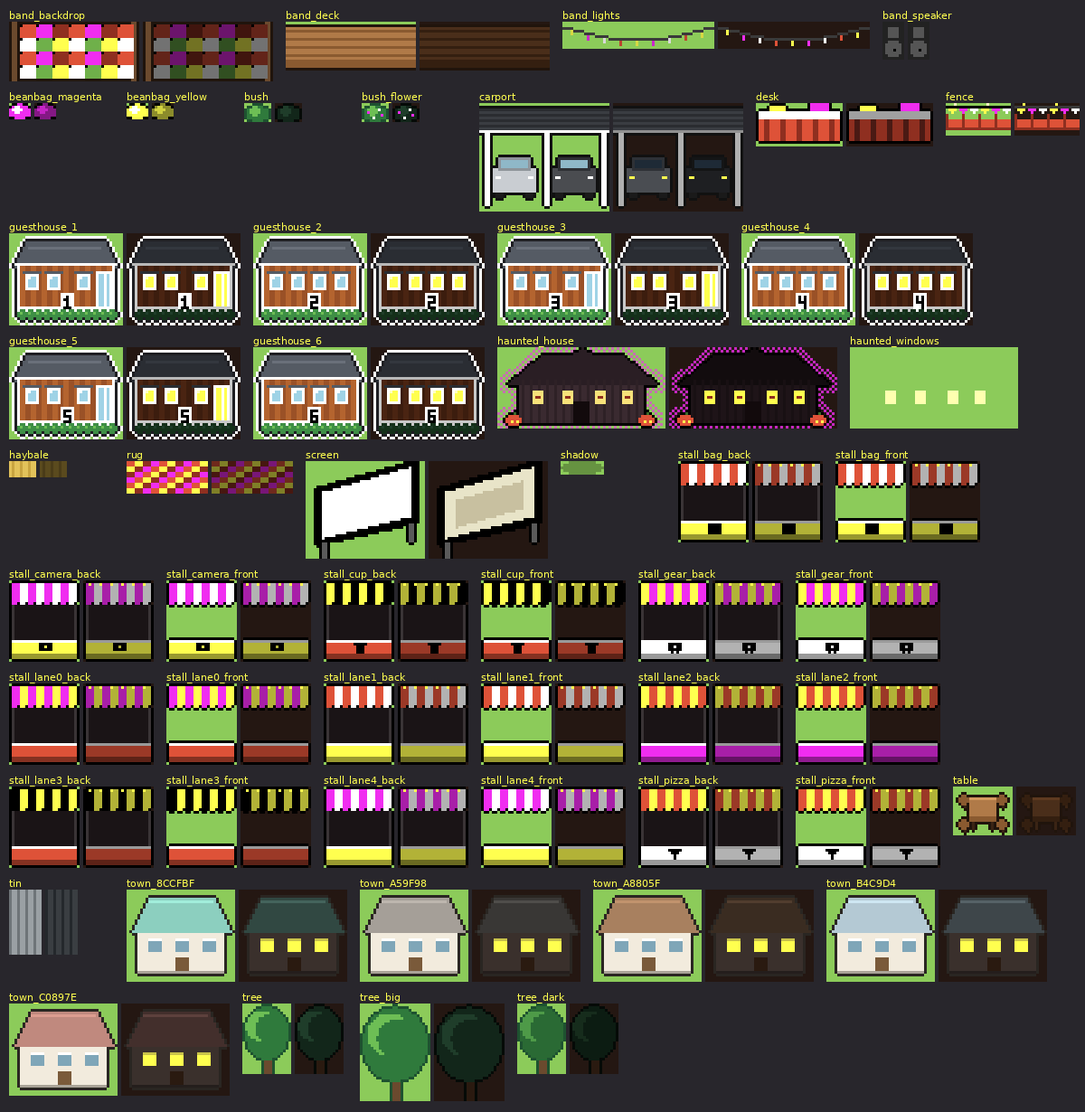
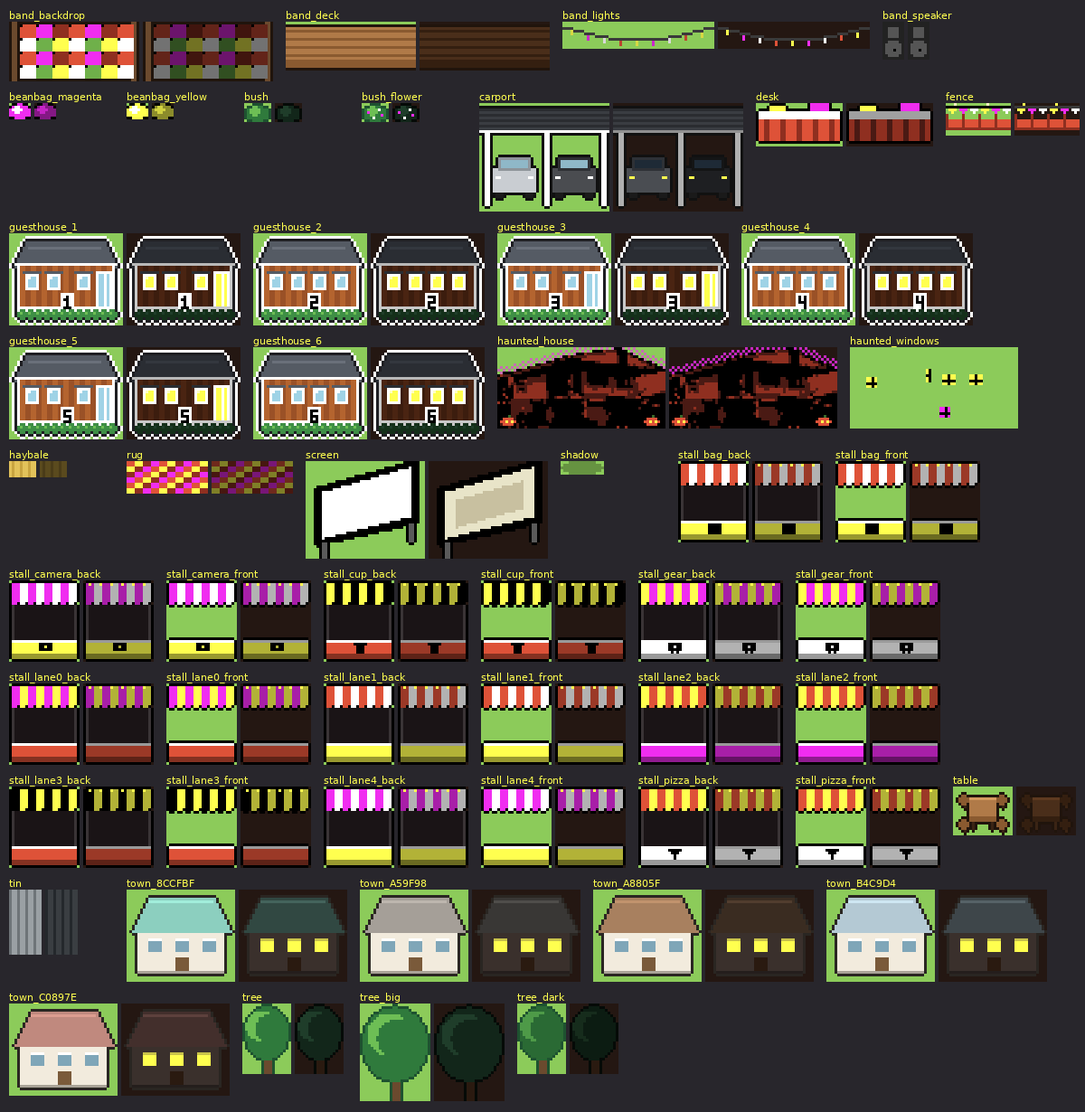
Scene 3: prototype dialogue, credits and haunted house; phone-safe links
- The 13 characters' dialogue, speaker tags and costumes, and the credits,
  copied exactly from the prototype (lannapha-home.html, NPC_DEFS/CREDITS),
  found as the owner's published demo.
- The real haunted house (haunted_house_124x60.png from the prototype),
  halved by majority colour, magenta halo, pumpkins, flickering windows.
- Long speaker tags drop to 10 px to stay inside the box; name plates over
  heads keep the short names.
- Links open through a real new-tab anchor (works in phone browsers and in
  embedded viewers); tools/artifact_page.py adds a window.open fallback for
  scenes 1 and 2 and names the full game page.

Claude-Session: https://claude.ai/code/session_01Fe5UomiUQN5FvRh91y8j5k

Changed region(s): [[0.4317, 0.3089, 0.7708, 0.4016], [0.8017, 0.3398, 0.925, 0.3707]]

diff --git a/src/scene3/data/script.js b/src/scene3/data/script.js
@@ -1,11 +1,8 @@
 // Scene 3 text. Lines from the owner's brief are final and used exactly.
 //
-// TODO(prototype): the characters' dialogue (NPC_DEFS) and the credits (CREDITS) live in
-// the prototype lannapha-home.html, which has not been delivered to this repo yet. Their
-// pages below are visible placeholders (PENDING). Paste the prototype's Thai lines into
-// NPC_LINES and CREDITS: nothing else needs to change.
-
-export const PENDING = (who) => `[บทพูดของ ${who}: รอคัดลอกจากต้นแบบ]`;
+// The characters' dialogue, speaker tags and credits are copied exactly from the prototype
+// (lannapha-home.html, its scene 3 NPC_DEFS and CREDITS). The haunted house's goal name is
+// the owner's later change (บ้านเมื่อคืนผมนอนไม่หลับ).
 
 // ---- Opening welcome (final, Jay laughs โฮะๆ at the end) ----
 export const WELCOME_SPEAKER = 'Jayimpacts';
@@ -51,21 +48,36 @@ export const LABELS = {
 export const STALL_ROW_SPEAKER = 'ซุ้มเปิดจองพื้นที่';
 export const STALL_ROW_PAGES = ['ใครอยากมาเป็นส่วนหนึ่งของงาน สามารถจับจองพื้นที่เปิดซุ้มกับเราได้เลยครับ'];
 
-// ---- Characters' dialogue: TODO(prototype) copy NPC_DEFS pages here (key -> pages) ----
+// ---- Characters' dialogue and speaker tags: copied exactly from the prototype's NPC_DEFS ----
+export const NPC_NAMES = {
+  bas: 'น้องบาส (จุดลงทะเบียน)',
+  djton: 'ดีเจต้น (มิกซ์เพลง/หนังกลางแปลง)',
+  wizard: 'จอมเวทย์ลึกลับ',
+  pan: 'น้องปัน (โซนที่นั่งชมจอกลางแปลง)',
+  chef: 'เชฟตูน (ร้านพิซซ่า)',
+  beer: 'น้าเบียร์ (ร้านเครื่องดื่ม)',
+  khaopan: 'น้องข้าวปั้น (โซนโต๊ะจัดเลี้ยง)',
+  golf: 'น้องกอล์ฟ (จุดถ่ายรูป Photo Booth)',
+  nid: 'ป้านิด (ของทานเล่น/ของเล็กๆ Local)',
+  nok: 'พี่นก (ทางเชื่อมออกซอย)',
+  jay: 'Jayimpacts · ซุ้ม Rotary',
+  kaiching: 'Kaiching · ทีม Jintanakarn',
+  captain: 'Captain',
+};
 export const NPC_LINES = {
-  bas: [PENDING('น้องบาส')],
-  djton: [PENDING('ดีเจต้น')],
-  wizard: [PENDING('จอมเวทย์ลึกลับ')],
-  pan: [PENDING('น้องปัน')],
-  chef: [PENDING('เชฟตูน')],
-  beer: [PENDING('น้าเบียร์')],
-  khaopan: [PENDING('น้องข้าวปั้น')],
-  golf: [PENDING('น้องกอล์ฟ')],
-  nid: [PENDING('ป้านิด')],
-  nok: [PENDING('พี่นก')],
-  jay: [PENDING('Jayimpacts')], // his last page gets the "เปิด IG" button
-  kaiching: [PENDING('Kaiching')],
-  captain: [PENDING('Captain')],
+  bas: ['สวัสดีครับ ตรงนี้คือจุดลงทะเบียนหน้างานนะครับ', 'งานนี้จะมีโซนที่นั่งชมจอกลางแปลง โซนโต๊ะจัดเลี้ยง และร้านค้าอีกหลายร้านมากมายครับ', 'เดินชมรอบๆ ได้เลยครับ มีอะไรถามผมได้ตลอดนะ'],
+  djton: ['สวัสดีครับ ผมคุมเพลงกับเสียงของโซนหนังกลางแปลงเองเลย', 'ก่อนหนังฉาย จะเปิดเพลย์ลิสต์ชิลล์ๆ คลอไปก่อนสักพักครับ', 'หนังสั้น ชักศอกไม่ถึงใจ เริ่มฉาย 1 ทุ่ม โปรแกรมหลักเริ่ม 1 ทุ่มครึ่งนะครับ'],
+  wizard: ['โฮ่ๆ... เจอผู้กล้าอีกคนแล้วสินะ', 'ข้าแค่แวะเดินผ่านงานนี้ ไม่ได้ตั้งใจจะมาทำนายดวงใครหรอกนะ...', 'แต่ถ้าอยากรู้ว่าวันนี้จะสนุกไหม บอกได้เลยว่า แน่นอน'],
+  pan: ['โซนนี้เป็นที่นั่งบีนแบ็กสำหรับดูจอกลางแปลงครับ จอใหญ่ตั้งอยู่ทางโน้นเลย', 'ลองนึกภาพเอนหลังบนบีนแบ็กนุ่มๆ มีลมเย็นจากคลองบางหลวงพัดมาเบาๆ พร้อมเสียงหัวเราะของเพื่อนๆ รอบตัว', 'ตกเย็นแดดร่มลมตก หยิบของกินเล่นจากร้านใกล้ๆ มานั่งดูหนังกลางแปลงด้วยกัน บรรยากาศดีสุดๆ เลยครับ'],
+  chef: ['สวัสดีครับ ร้านผมอยู่ตรงนี้เลย หนึ่งในร้านค้ามากมายของงาน', 'แผนคือให้แขกได้ลองนวดแป้งและโรยหน้าพิซซ่าเองก่อนเข้าเตาถ่านครับ', 'รอบถัดไปน่าจะเปิดให้จองได้เร็วๆ นี้ครับ'],
+  beer: ['ร้านน้านี่ขายเครื่องดื่มเย็นๆ ค่ะ มีทั้งชา กาแฟ และโซดาผลไม้', 'วันงานตั้งใจจะเตรียมเมนูพิเศษไว้ต้อนรับแขกด้วยนะ', 'แวะมาชิมกันได้เลยค่ะ'],
+  khaopan: ['สวัสดีค่ะ ตรงนี้คือโซนโต๊ะจัดเลี้ยงของงานนะคะ', 'จัดวางเป็นแถวให้แขกนั่งกินข้าวพร้อมชมบรรยากาศงานได้สบายๆ เลยค่ะ', 'ใกล้ๆ กันก็มีร้านค้าให้เดินเลือกซื้อของกินมานั่งทานที่โต๊ะได้ด้วยนะคะ'],
+  golf: ['สวัสดีครับ ตรงนี้คือจุด Photo Booth ของงานเลยครับ', 'มีฉากหลังสวยๆ ให้ถ่ายรูปเก็บบรรยากาศงาน แล้วก็มีของประกอบฉากให้หยิบเล่นด้วยนะ', 'ถ่ายเสร็จอย่าลืมแท็กมาให้ดูกันด้วยนะครับ เดี๋ยวจะรวบรวมรูปสวยๆ ไปโชว์หน้างาน'],
+  nid: ['ร้านของป้าขายของทานเล่น กับของฝาก local เล็กๆน้อยๆ ค่ะ', 'แถวนี้มีของกินเล่นเยอะแยะ แวะดูได้นะคะ'],
+  nok: ['Welcome to Laanapha ยินดีต้อนรับค่ะ', 'ทางนี้เป็นทางเชื่อมออกไปต่อซอยด้านหน้าค่ะ รถเข้า-ออกทางนี้เลย', 'แถวนี้เป็นย่านใกล้คลองบางหลวง ตอนเย็นลมเย็นดีมากค่ะ', 'พร้อมจะสำรวจพื้นที่ใน ลาน ณ ภา รึยังคะ??', 'เชิญเดินตรงไปด้านในเลยค่ะ'],
+  jay: ['ยินดีต้อนรับสู่ซุ้ม Rotary! ข้า Jayimpacts เฝ้าซุ้มนี้อยู่', 'ถ้าชอบงานนี้ อย่าลืมกดติดตาม IG ของข้าด้วยนะ'], // the last page gets the "เปิด IG" button
+  kaiching: ['ข้า Kaiching จากทีม Jintanakarn ยินดีที่ได้เจอ', 'หนังสั้น ชักศอกไม่ถึงใจ เริ่มฉาย 1 ทุ่มตรงเป๊ะ อย่ามาสายนะ'],
+  captain: ['Captain รายงานตัว! ข้าเดินตรวจงานอยู่', 'โปรแกรมหลักเริ่ม 1 ทุ่มครึ่ง ห้ามพลาด', 'บัตรราคาขึ้นตามช่วงวัน จองเร็วถูกกว่านะ'],
 };
 
 // ---- Ending (final) ----
@@ -75,7 +87,25 @@ export const prizeHowTo = (how) => `รางวัลพิเศษ ✓ วิ
 export const ENDING_BUTTONS = { book: 'จองบัตรเลย', instagram: 'IG @jayimpacts', credits: 'เครดิต', home: 'หน้าแรก' };
 export const AFTER_EVENT_LINE = 'งานจัดไปแล้ว ติดตามเราไว้พบกันปีหน้า';
 
-// ---- Credits: TODO(prototype) copy CREDITS here ({ name, role, sprite }) ----
-// Until then the credits list the team characters by name with a pending role.
-export const CREDITS = null;
-export const CREDITS_PENDING_ROLE = 'รอข้อมูลเครดิต'; // TODO(prototype)
+// ---- Credits: copied from the prototype's CREDITS ----
+// h: heading, t: text line, p: a person with their sprite (costume, accessory), gap: space
+export const CREDITS = [
+  { h: 'ลานนภา Halloween Fest' },
+  { t: '24-25 ต.ค. 2569' },
+  { gap: 10 },
+  { h: 'ทีมงาน' },
+  { p: true, who: 'jayimpacts', n: 'Jayimpacts', r: 'ซุ้ม Rotary' },
+  { p: true, who: 'vampire', n: 'Kaiching', r: 'ทีม Jintanakarn' },
+  { p: true, who: 'slasher', acc: 'cap', n: 'Captain', r: 'ทีมงาน' },
+  { t: 'น้องบาส · ดีเจต้น · เชฟตูน' },
+  { t: 'น้าเบียร์ · น้องข้าวปั้น · น้องกอล์ฟ' },
+  { t: 'ป้านิด · พี่นก · น้องปัน' },
+  { t: 'และทีมงานทุกคน' },
+  { gap: 10 },
+  { h: 'ภาพยนตร์สั้น' },
+  { t: 'ชักศอกไม่ถึงใจ' },
+  { t: 'เริ่มฉาย 1 ทุ่ม' },
+  { gap: 12 },
+  { t: 'ขอบคุณที่มาเยือนลานนภา' },
+  { t: 'แล้วพบกันที่งาน!' },
+];

diff --git a/src/scene3/logic/npcs.js b/src/scene3/logic/npcs.js
@@ -1,9 +1,9 @@
 // Scene 3 characters and talk targets (pure data).
 // Positions are base units (see layout.js) and spread like every other anchor.
-// Costumes are scene 1's eight birds as placeholders.
-// TODO(owner): real names and looks for the team.
+// Speaker tags, dialogue and costumes (scene 1's birds) follow the prototype's NPC_DEFS.
+// TODO(owner): real looks for the team (the costumes are still placeholders).
 import { spread, SHOPS, DESK, BAND, LANE_TOUCH, LANE_STALLS, TABLES, R } from './layout.js';
-import { NPC_LINES, STALL_ROW_PAGES, STALL_ROW_SPEAKER } from '../data/script.js';
+import { NPC_LINES, NPC_NAMES, STALL_ROW_PAGES, STALL_ROW_SPEAKER } from '../data/script.js';
 
 const staff = (shop) => ({ x: shop.x, y: shop.y - shop.staffDy }); // feet on the counter top, inside the opening
 const base = (x, y) => spread({ x, y });
@@ -29,25 +29,25 @@ const walkY = SHOPS[0].y + 12; // the walkway in front of the shop row
  */
 export const NPCS = [
   { key: 'bas', name: 'น้องบาส', costume: 'mahidol', at: { x: DESK.x, y: DESK.y - 9 } }, // behind the registration desk
-  { key: 'djton', name: 'ดีเจต้น', costume: 'silpakorn', acc: 'headphones', at: base(236, 116) },
-  { key: 'wizard', name: 'จอมเวทย์ลึกลับ', costume: 'vampire', patrol: [{ x: 60, y: pathRowY }, { x: 320, y: pathRowY }] },
-  { key: 'pan', name: 'น้องปัน', costume: 'pumpkin', at: base(150, 132) },
-  { key: 'chef', name: 'เชฟตูน', costume: 'nuannapa', acc: 'chef_hat', at: staff(SHOPS[2]) },
+  { key: 'djton', name: 'ดีเจต้น', costume: 'nuannapa', acc: 'headphones', at: base(236, 116) },
+  { key: 'wizard', name: 'จอมเวทย์ลึกลับ', costume: 'onryo', patrol: [{ x: 60, y: pathRowY }, { x: 320, y: pathRowY }] },
+  { key: 'pan', name: 'น้องปัน', costume: 'silpakorn', at: base(150, 132) },
+  { key: 'chef', name: 'เชฟตูน', costume: 'pumpkin', acc: 'chef_hat', at: staff(SHOPS[2]) },
   { key: 'beer', name: 'น้าเบียร์', costume: 'ramwong', at: staff(SHOPS[1]) },
-  { key: 'khaopan', name: 'น้องข้าวปั้น', costume: 'onryo', patrol: tableAisles },
+  { key: 'khaopan', name: 'น้องข้าวปั้น', costume: 'nuannapa', acc: 'straw_hat', patrol: tableAisles },
   { key: 'golf', name: 'น้องกอล์ฟ', costume: 'slasher', at: staff(SHOPS[3]) },
-  { key: 'nid', name: 'ป้านิด', costume: 'ramwong', acc: 'straw_hat', at: staff(SHOPS[0]) },
-  { key: 'nok', name: 'พี่นก', costume: 'nuannapa', acc: 'straw_hat', at: { x: R.lane[0] - 14, y: R.soi[1] + 14 } }, // soi, west corner of the lane mouth
+  { key: 'nid', name: 'ป้านิด', costume: 'silpakorn', at: staff(SHOPS[0]) },
+  { key: 'nok', name: 'พี่นก', costume: 'mahidol', at: { x: R.lane[0] - 14, y: R.soi[1] + 14 } }, // soi, west corner of the lane mouth
   { key: 'jay', name: 'Jayimpacts', costume: 'jayimpacts', at: { x: SHOPS[4].x + 20, y: SHOPS[4].y - 3 }, ig: true }, // beside the Rotary stall
-  { key: 'kaiching', name: 'Kaiching', costume: 'pumpkin', at: { x: DESK.x + 15, y: DESK.y + 8 } }, // Jintanakarn team, east of the desk
-  { key: 'captain', name: 'Captain', costume: 'silpakorn', acc: 'cap', patrol: [{ x: 40, y: walkY }, { x: 310, y: walkY }] },
-].map((n) => ({ ...n, pages: NPC_LINES[n.key] }));
+  { key: 'kaiching', name: 'Kaiching', costume: 'vampire', at: { x: DESK.x + 15, y: DESK.y + 8 } }, // Jintanakarn team, east of the desk
+  { key: 'captain', name: 'Captain', costume: 'slasher', acc: 'cap', patrol: [{ x: 40, y: walkY }, { x: 310, y: walkY }] },
+].map((n) => ({ ...n, short: n.name, name: NPC_NAMES[n.key], pages: NPC_LINES[n.key] })); // short: the name plate over the head
 
 // The band: scenery, no dialogue.
 export const MUSICIANS = [
-  { key: 'guitar', costume: 'pumpkin', acc: 'guitar', at: { x: BAND.deck.x - 12, y: BAND.stageY } },
+  { key: 'guitar', costume: 'silpakorn', acc: 'guitar', at: { x: BAND.deck.x - 12, y: BAND.stageY } },
   { key: 'singer', costume: 'ramwong', acc: 'mic', at: { x: BAND.deck.x, y: BAND.stageY - 1 } },
-  { key: 'cajon', costume: 'slasher', acc: 'cajon', at: { x: BAND.deck.x + 12, y: BAND.stageY } },
+  { key: 'cajon', costume: 'pumpkin', acc: 'cajon', at: { x: BAND.deck.x + 12, y: BAND.stageY } },
 ];
 
 // The lane stall row: one talk target, five touch points, one "!" over the middle stall.

diff --git a/src/scene3/scenes/EndingScene.js b/src/scene3/scenes/EndingScene.js
@@ -4,12 +4,12 @@
 // Instagram, เครดิต, หน้าแรก. Links open in a new tab.
 import Phaser from 'phaser';
 import { label, wrap } from '../ui/text.js';
-import { summaryText, voucherHowTo, prizeHowTo, ENDING_BUTTONS, CREDITS, CREDITS_PENDING_ROLE } from '../data/script.js';
+import { summaryText, voucherHowTo, prizeHowTo, ENDING_BUTTONS, CREDITS } from '../data/script.js';
 import { EVENT_CARD, URLS, VOUCHER, SPECIAL_PRIZE, MIN_TOUCH_CSS_PX } from '../config.js';
 import { ticketLine } from '../logic/ticketLine.js';
-import { NPCS } from '../logic/npcs.js';
 import { COSTUMES } from '../assets.js';
 import { audio } from '../../audio/engine.js';
+import { openUrl } from '../ui/openUrl.js';
 
 const W = 180;
 const H = 320;
@@ -79,8 +79,8 @@ export class EndingScene extends Phaser.Scene {
 
     // Buttons, anchored to the bottom.
     const B = (this.buttons = {
-      book: { r: [10, 252, 160, 20], fill: 0xffff4f, color: '#000000', text: ENDING_BUTTONS.book, act: () => window.open(URLS.booking, '_blank', 'noopener') },
-      instagram: { r: [10, 276, 160, 18], fill: 0xf02df0, color: '#000000', text: ENDING_BUTTONS.instagram, act: () => window.open(URLS.instagram, '_blank', 'noopener') },
+      book: { r: [10, 252, 160, 20], fill: 0xffff4f, color: '#000000', text: ENDING_BUTTONS.book, act: () => openUrl(URLS.booking) },
+      instagram: { r: [10, 276, 160, 18], fill: 0xf02df0, color: '#000000', text: ENDING_BUTTONS.instagram, act: () => openUrl(URLS.instagram) },
       credits: { r: [10, 298, 78, 18], fill: 0x000000, color: '#FFFFFF', text: ENDING_BUTTONS.credits, act: () => this.scene.start('S3Credits') },
       home: { r: [92, 298, 78, 18], fill: 0x000000, color: '#FFFFFF', text: ENDING_BUTTONS.home, act: () => S.callbacks.onHome() },
     });
@@ -111,21 +111,32 @@ export class CreditsScene extends Phaser.Scene {
   create() {
     designCamera(this);
     this.cameras.main.setBackgroundColor('#000000');
-    // TODO(prototype): CREDITS from lannapha-home.html. Until then: the team characters by name.
-    const list = CREDITS ?? [{ name: 'Jayimpacts', role: CREDITS_PENDING_ROLE, sprite: 'jayimpacts' }, ...NPCS.filter((n) => n.key !== 'jay').map((n) => ({ name: n.name, role: CREDITS_PENDING_ROLE, sprite: n.costume }))];
+    // CREDITS (prototype): headings, lines, and team members with their sprite beside the name.
     this.rollY = H - 120;
     this.roll = this.add.container(0, this.rollY);
     let y = 0;
-    this.roll.add(label(this, W / 2, y, 'ลานนภา Halloween Fest', { align: 'center', color: '#FFFF4F' }));
-    y += 34;
-    for (const e of list) {
-      const id = COSTUMES[e.sprite] ? e.sprite : 'nuannapa';
+    for (const e of CREDITS) {
+      if (e.gap) {
+        y += e.gap;
+        continue;
+      }
+      if (e.h) {
+        this.roll.add(label(this, W / 2, y, e.h, { align: 'center', color: '#FFFF4F' }));
+        y += 22;
+        continue;
+      }
+      if (e.t) {
+        this.roll.add(label(this, W / 2, y, e.t, { align: 'center', color: '#FFFFFF' }));
+        y += 18;
+        continue;
+      }
+      const id = COSTUMES[e.who] ? e.who : 'nuannapa';
       const cell = COSTUMES[id].cell;
-      const s = this.add.sprite(40, y + cell.h, `ch_${id}_front`, 0).setOrigin(0.5, 1).setScale(1 / 3).play(`${id}_front_idle`);
-      this.roll.add(s);
-      this.roll.add(label(this, 66, y + cell.h / 2 - 16, e.name, { color: '#FFFFFF' }));
-      this.roll.add(label(this, 66, y + cell.h / 2, e.role, { color: '#888888', px: 10 }));
-      y += Math.max(cell.h, 36) + 12;
+      this.roll.add(this.add.sprite(40, y + cell.h, `ch_${id}_front`, 0).setOrigin(0.5, 1).setScale(1 / 3).play(`${id}_front_idle`));
+      if (e.acc) this.roll.add(this.add.image(40, y + 10, `c_acc_${e.acc}`).setOrigin(0.5, 1).setScale(1 / 3));
+      this.roll.add(label(this, 66, y + cell.h / 2 - 16, e.n, { color: '#FFFFFF' }));
+      this.roll.add(label(this, 66, y + cell.h / 2, e.r, { color: '#AAAAAA', px: 10 }));
+      y += Math.max(cell.h, 36) + 8;
     }
     this.rollH = y;
     this.input.on('pointerdown', () => {

diff --git a/src/scene3/scenes/HudScene.js b/src/scene3/scenes/HudScene.js
@@ -11,6 +11,7 @@ import { ZOOM_LEVELS, MIN_TOUCH_CSS_PX, PLATE_RANGE, URLS, STALL_BOOKING, TALK_R
 import { ZONES, dist, inZone } from '../logic/layout.js';
 import { STALL_ROW } from '../logic/npcs.js';
 import { audio } from '../../audio/engine.js';
+import { openUrl } from '../ui/openUrl.js';
 
 const W = 180;
 const H = 320;
@@ -235,8 +236,8 @@ export class HudScene extends Phaser.Scene {
     this.pendingTalk = null;
     const isJay = key === 'jay';
     let button = null;
-    if (t.ig) button = { label: LABELS.igButton, onPress: () => window.open(URLS.instagram, '_blank', 'noopener') };
-    if (key === STALL_ROW.key && STALL_BOOKING.url) button = { label: STALL_BOOKING.label, onPress: () => window.open(STALL_BOOKING.url, '_blank', 'noopener') };
+    if (t.ig) button = { label: LABELS.igButton, onPress: () => openUrl(URLS.instagram) };
+    if (key === STALL_ROW.key && STALL_BOOKING.url) button = { label: STALL_BOOKING.label, onPress: () => openUrl(STALL_BOOKING.url) };
     this.dialogue.show(t.pages, {
       speaker: t.speaker,
       portrait: isJay,
@@ -400,7 +401,7 @@ export class HudScene extends Phaser.Scene {
       const z = ws.designZoom;
       const sx = (n.x - cam.worldView.x) * z;
       const sy = (n.y - 14 - cam.worldView.y) * z;
-      this.plate.setText(n.def.name).setPosition(Math.round(sx), Math.round(sy - 16 - (z >= 2 ? 6 : 0))).setVisible(sy > 24 && sy < 290);
+      this.plate.setText(n.def.short).setPosition(Math.round(sx), Math.round(sy - 16 - (z >= 2 ? 6 : 0))).setVisible(sy > 24 && sy < 290);
       if (this.plate.visible) {
         const pw = Math.ceil(this.plate.width) - 8 + 6;
         g.fillStyle(0x000000, 0.75).fillRect(Math.round(sx - pw / 2), this.plate.y + 4, pw, 13);

diff --git a/src/scene3/ui/Dialogue.js b/src/scene3/ui/Dialogue.js
@@ -47,7 +47,8 @@ export class Dialogue {
     g.lineStyle(1, 0xffff4f, 1).strokeRect(BOX.x + 0.5, BOX.y + 0.5, BOX.w - 1, BOX.h - 1);
     const speaker = this.opts.speaker;
     if (speaker) {
-      this.tag.setText(speaker).setVisible(true);
+      this.tag.setText(speaker).setFontSize(12).setVisible(true);
+      if (this.tag.width - 8 > BOX.w - 24) this.tag.setFontSize(10); // long tags (role in brackets) stay inside the box
       const w = Math.ceil(this.tag.width) - 8 + 10;
       g.fillStyle(0xf02df0, 1).fillRect(BOX.x + 6, BOX.y - 8, w, 15);
       g.lineStyle(1, 0x000000, 1).strokeRect(BOX.x + 6.5, BOX.y - 7.5, w - 1, 14);

diff --git a/src/scene3/ui/openUrl.js b/src/scene3/ui/openUrl.js
@@ -1,0 +1,11 @@
+// Open an outside link in a new tab from a tap. A real <a target="_blank"> click works in
+// phone browsers and inside embedded viewers where window.open is refused.
+export function openUrl(url) {
+  const a = document.createElement('a');
+  a.href = url;
+  a.target = '_blank';
+  a.rel = 'noopener noreferrer';
+  document.body.appendChild(a);
+  a.click();
+  a.remove();
+}

diff --git a/tools/scene3_art.py b/tools/scene3_art.py
@@ -434,30 +434,36 @@ def town_house(night, roof):
     return c
 
 
+HOUSE_SRC = Path('assets/incoming/scene3/haunted_house_124x60.png')  # the owner's photo, pixel-converted (from the prototype)
+# Lit windows (halved from the prototype's HOUSE_WINDOWS on the 124 x 60 sprite): x, y, w, h, colour
+HOUSE_WINDOWS = [(6, 11, 4, 4, '#FFFF4F'), (28, 8, 2, 5, '#FFFF4F'), (34, 10, 5, 4, '#FFFF4F'), (44, 10, 5, 4, '#FFFF4F'), (33, 22, 4, 4, '#F02DF0')]
+
+
+def halve_majority(im):
+    """124 x 60 -> 62 x 30: each 2 x 2 block takes its most common colour (transparent wins ties)."""
+    src = im.convert('RGBA').load()
+    w, h = im.size[0] // 2, im.size[1] // 2
+    out = Image.new('RGBA', (w, h))
+    o = out.load()
+    for y in range(h):
+        for x in range(w):
+            block = [src[2 * x + i, 2 * y + j] for j in (0, 1) for i in (0, 1)]
+            block = [(0, 0, 0, 0) if p[3] < 128 else p[:3] + (255,) for p in block]
+            o[x, y] = max(block, key=lambda p: (block.count(p), p[3] == 0))
+    return out
+
+
 def haunted_house(night):
-    """TODO(asset): replace with haunted_house_124x60.png halved to 62 x 30 (majority-colour
-    downsample) when the file arrives. Placeholder in the same size and spirit: dark old
-    house, glowing windows, two glowing pumpkins, magenta dithered halo."""
+    """The venue's haunted house (บ้านเมื่อคืนผมนอนไม่หลับ) from the owner's photo: halved to 62 x 30,
+    two glowing pumpkins, a magenta dithered halo. Windows flicker at runtime (haunted_windows)."""
     c = C(62, 30)
-    body = '#3A2A30' if not night else '#1E1418'
-    roof = '#2A1E24' if not night else '#120C0E'
-    c.rect(8, 12, 46, 16, body)
-    c.poly([(4, 13), (16, 3), (46, 3), (58, 13)], roof)
-    c.poly([(22, 6), (31, 0), (40, 6)], roof)  # gable
-    for x in range(9, 54, 3):
-        c.rect(x, 12, 1, 16, dim(body, 0.8))
-    win = '#FFFF4F' if night else '#F7E27A'
-    for wx in (13, 24, 36, 46):
-        c.rect(wx, 16, 4, 5, win)
-        c.rect(wx + 1, 18, 2, 1, '#8F2F20')
-    c.rect(28, 20, 6, 8, '#120A0C')
-    for px_ in (6, 55):  # glowing pumpkins
-        c.ell(px_, 27, 2.6, 2, '#DE5238')
+    c.im.alpha_composite(halve_majority(Image.open(HOUSE_SRC)))
+    c.p = c.im.load()
+    for px_ in (4, 57):  # glowing pumpkins at the corners
+        c.ell(px_, 27.5, 2.6, 2, '#DE5238')
         c.px(px_ - 1, 27, '#FFFF4F')
         c.px(px_ + 1, 27, '#FFFF4F')
-        c.px(px_, 24, '#3A6A2A')
-    c.outline('#000000')
-    # magenta dithered halo around the silhouette
+        c.px(px_, 25, '#3A6A2A')
     src = c.im.copy().load()
     for y in range(30):
         for x in range(62):
@@ -470,10 +476,12 @@ def haunted_house(night):
 
 
 def haunted_windows():
-    """Window glow overlay (flickered at runtime)."""
+    """Window light overlay, flickered at runtime: yellow windows, one magenta, with a dark cross."""
     c = C(62, 30)
-    for wx in (13, 24, 36, 46):
-        c.rect(wx, 16, 4, 5, '#FFFFB0')
+    for x, y, w, h, col in HOUSE_WINDOWS:
+        c.rect(x, y, w, h, col)
+        c.rect(x + w // 2, y, 1, h, '#000000')
+        c.rect(x, y + h // 2, w, 1, '#000000')
     return c
 
 

diff --git a/tools/artifact_page.py b/tools/artifact_page.py
@@ -1,20 +1,44 @@
 #!/usr/bin/env python3
-"""Turns the single-file demo build (dist-demo/game.html, the full game) into an Artifact page
-body: the publish step adds its own doctype/head/body skeleton, so this keeps the
-<title>, inline styles and scripts, and the body markup. Pillow-free, stdlib only.
+"""Turns the single-file demo build (dist-demo/game.html, the full game: scene 1 -> 2 -> 3)
+into an Artifact page body: the publish step adds its own doctype/head/body skeleton, so
+this keeps the <title>, inline styles and scripts, and the body markup. Stdlib only.
 
-  npm run build:demo && python3 tools/artifact_page.py OUT.html
+Inside the Artifact viewer window.open returns null for most viewers, so the page gets a
+small fallback first: when window.open is refused, the link opens through a real
+<a target="_blank"> click (scenes 1 and 2 use window.open for tickets and Instagram; scene 3
+already opens its links that way).
+
+  npm run build:demo && python3 tools/artifact_page.py OUT.html ["Title"]
 """
 import re
 import sys
 
-src = open('dist-demo/game.html', encoding='utf-8').read()  # full game: scene 1 -> scene 2
+src = open('dist-demo/game.html', encoding='utf-8').read()
 head = re.search(r'<head>(.*?)</head>', src, re.S).group(1)
 body = re.search(r'<body>(.*)</body>', src, re.S).group(1)
-head = re.sub(r'<meta[^>]*>\s*', '', head)  # the skeleton brings charset + viewport
-title = re.search(r'<title>.*?</title>', head, re.S).group(0)
-head = head.replace(title, '')
-title = '<title>Lannapha Trick or Treat</title>'  # the demo artifact's name; scene 1's page title differs
-page = title + '\n<style>:root{color-scheme:dark;background:#000}html,body{height:100%;background:#000}</style>\n' + head + body
+head = re.sub(r'<meta[^>]*>\s*', '', head)  # the skeleton brings charset + viewport (viewport-fit=cover)
+head = re.sub(r'<title>.*?</title>\s*', '', head, flags=re.S)
+title = sys.argv[2] if len(sys.argv) > 2 else 'ลานนภา Halloween Fest'
+
+SHIM = """<script>
+(function () {
+  var open = window.open;
+  window.open = function (url, target, features) {
+    var w = null;
+    try { w = open.call(window, url, target, features); } catch (e) {}
+    if (w || !url) return w;
+    var a = document.createElement('a');
+    a.href = url; a.target = '_blank'; a.rel = 'noopener noreferrer';
+    document.body.appendChild(a); a.click(); a.remove();
+    return null;
+  };
+})();
+</script>"""
+
+page = (
+    f'<title>{title}</title>\n'
+    '<style>:root{color-scheme:dark;background:#000}html,body{height:100%;background:#000}</style>\n'
+    + SHIM + '\n' + head + body
+)
 open(sys.argv[1], 'w', encoding='utf-8').write(page)
 print(f'{sys.argv[1]}: {len(page) / 1e6:.2f} MB')
